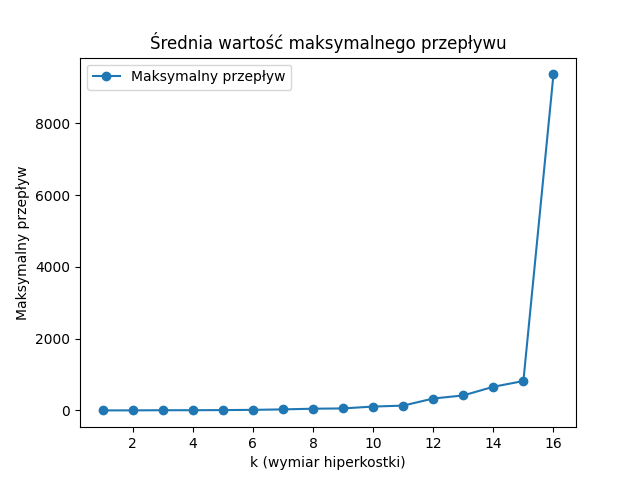
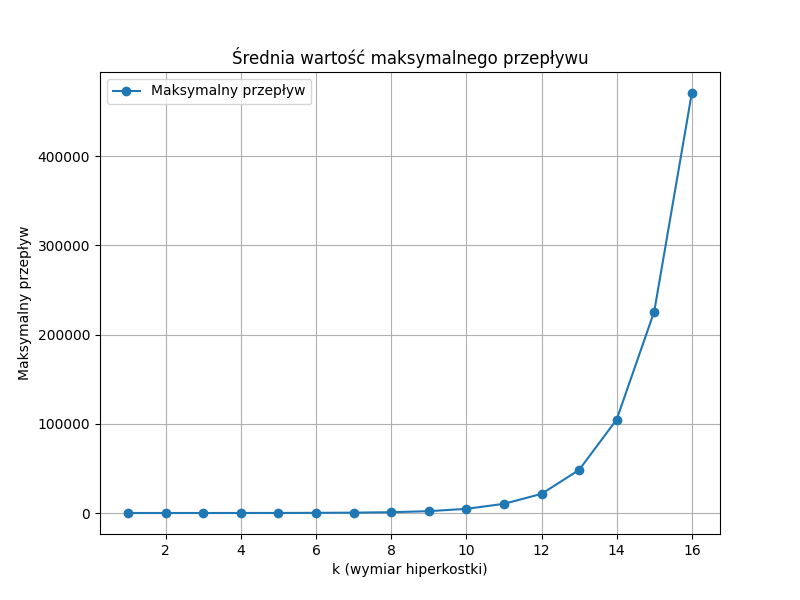
[aod] Completed task 1 from list 4

diff --git a/sem5/aod/list4/src/Graph.cpp b/sem5/aod/list4/src/Graph.cpp
@@ -23,11 +23,11 @@ Graph Graph::createHypercube(const long long size) {
                 continue;
             }
 
-            const long long vertexHammingWeight = __builtin_popcount(size);
-            const long long vertexNumberOfZeroes = dimension - vertexHammingWeight;
+            const long long vertexHammingWeight = __builtin_popcount(vertex);
+            const long long vertexNumberOfZeroes = size - vertexHammingWeight;
 
-            const long long neighborHammingWeight = __builtin_popcount(size);
-            const long long neighborNumberOfZeroes = dimension - neighborHammingWeight;
+            const long long neighborHammingWeight = __builtin_popcount(neighbor);
+            const long long neighborNumberOfZeroes = size - neighborHammingWeight;
 
             const long long upperBound = 1 << std::max({vertexHammingWeight, vertexNumberOfZeroes, neighborHammingWeight, neighborNumberOfZeroes});
 
@@ -40,6 +40,25 @@ Graph Graph::createHypercube(const long long size) {
     return hypercube;
 }
 
+Graph Graph::createBipartiteGraph(const long long size, const long long vertexDegree) {
+    const long long numberOfVertices = 1 << (size + 1); // 2^(2 * size)
+    Graph bipartiteGraph(numberOfVertices, false);
+
+    std::mt19937 mt(std::random_device{}());
+
+    std::uniform_int_distribution<long long> firstVertexSetDistribution(0, (2 << size) - 1);
+    std::uniform_int_distribution<long long> secondVertexSetDistribution((2 << size), (1 << (2 * size)) - 1);
+
+    for (long long vertex = 0; vertex < numberOfVertices; vertex++) {
+        for (int i = 0; i < vertexDegree; i++) {
+            const long long neighbor = (vertex <= (2 << size) - 1) ? secondVertexSetDistribution(mt) : firstVertexSetDistribution(mt);
+            bipartiteGraph.addEdge(vertex, neighbor, 1);
+        }
+    }
+
+    return bipartiteGraph;
+}
+
 void Graph::addEdge(const long long vertex1, const long long vertex2, const long long capacity) {
     numberOfEdges_++;
 
@@ -49,8 +68,8 @@ void Graph::addEdge(const long long vertex1, const long long vertex2, const long
         return;
     }
 
-    // adjacencyList_[vertex1].push_back(Edge(vertex1, vertex2, capacity));
-    // adjacencyList_[vertex2].push_back(Edge(vertex2, vertex1, capacity));
+    adjacencyList_[vertex1].push_back(Edge(vertex1, vertex2, capacity, 0, adjacencyList_[vertex2].size()));
+    adjacencyList_[vertex2].push_back(Edge(vertex2, vertex1, capacity, 0, adjacencyList_[vertex1].size() - 1));
 }
 
 bool Graph::isDirected() const {

diff --git a/sem5/aod/list4/src/plot_generator.py b/sem5/aod/list4/src/plot_generator.py
@@ -3,10 +3,9 @@ from typing import List
 
 import matplotlib.pyplot as plt
 
-DATA_DIR = "../experimentOutput/"
-EDMONDS_KARP_RESULT_FILENAME = "edmondsKarpResults.csv"
-
+EDMONDS_KARP_EXPERIMENT_RESULT_FILENAME = "../experimentOutput/edmondsKarpResults.csv"
 OUTPUT_DIR = "../plots/"
+
 
 def generate_plots_for_edmonds_karp(plot_names: List[str], data_file_path: str, output_file_names: List[str]) -> None:
     xs = []
@@ -20,16 +19,18 @@ def generate_plots_for_edmonds_karp(plot_names: List[str], data_file_path: str, 
 
         for row in rows:
             xs.append(int(row[0]))
-            ys1.append(float(row[1]))
+            ys1.append(float(row[1]) / 1_000_000_000)
             ys2.append(float(row[2]))
             ys3.append(float(row[3]))
 
+    plt.figure(figsize=(8, 6))
     plt.clf()
     plt.plot(xs, ys1, label="Czas", marker="o")
     plt.xlabel("k (wymiar hiperkostki)")
-    plt.ylabel("Czas (ns)")
+    plt.ylabel("Czas (s)")
     plt.title(plot_names[0])
     plt.legend()
+    plt.grid(True)
     plt.savefig(output_file_names[0])
 
     plt.clf()
@@ -38,6 +39,7 @@ def generate_plots_for_edmonds_karp(plot_names: List[str], data_file_path: str, 
     plt.ylabel("Maksymalny przepływ")
     plt.title(plot_names[1])
     plt.legend()
+    plt.grid(True)
     plt.savefig(output_file_names[1])
 
     plt.clf()
@@ -46,13 +48,20 @@ def generate_plots_for_edmonds_karp(plot_names: List[str], data_file_path: str, 
     plt.ylabel("Ilość wyliczonych ścieżek powiększających")
     plt.title(plot_names[2])
     plt.legend()
+    plt.grid(True)
     plt.savefig(output_file_names[2])
 
+
 def main() -> None:
-    plot_names = ["Średni czas wykonania Edmondsa-Karpa", "Średnia wartość maksymalnego przepływu", "Średnia ilość wyliczonych ścieżek powiększających"]
+    plot_names = [
+        "Średni czas wykonania Edmondsa-Karpa",
+        "Średnia wartość maksymalnego przepływu",
+        "Średnia ilość wyliczonych ścieżek powiększających",
+    ]
     output_file_names = ["edmondsKarpTimePlot.png", "edmondsKarpFlowPlot.png", "edmondsKarpPathPlot.png"]
     output_file_names = [OUTPUT_DIR + file_name for file_name in output_file_names]
-    generate_plots_for_edmonds_karp(plot_names, DATA_DIR + EDMONDS_KARP_RESULT_FILENAME, output_file_names)
+    generate_plots_for_edmonds_karp(plot_names, EDMONDS_KARP_EXPERIMENT_RESULT_FILENAME, output_file_names)
+
 
 if __name__ == "__main__":
     main()

diff --git a/sem5/aod/list4/src/experiment.cpp b/sem5/aod/list4/src/experiment.cpp
@@ -6,9 +6,9 @@
 #include "Graph.hpp"
 
 const std::string OUTPUT_DIRECTORY = "../experimentOutput/";
-constexpr int NUMBER_OF_REPEATS = 10;
+constexpr int NUMBER_OF_REPEATS = 100;
 
-void runExperiment() {
+void runFirstExperiment() {
     std::ofstream resultsFile(OUTPUT_DIRECTORY + "edmondsKarpResults.csv");
     resultsFile << "Hypercube Size,Duration,Max Flow,Number of Augmenting Paths\n";
 
@@ -40,7 +40,7 @@ void runExperiment() {
 }
 
 int main() {
-    runExperiment();
+    runFirstExperiment();
 
     return 0;
 }

diff --git a/sem5/aod/list4/src/Graph.hpp b/sem5/aod/list4/src/Graph.hpp
@@ -21,6 +21,7 @@ public:
     Graph(const long long numberOfVertices, const bool isDirected);
 
     static Graph createHypercube(const long long size);
+    static Graph createBipartiteGraph(const long long size, const long long vertexDegree);
 
     void addEdge(const long long vertex1, const long long vertex2, const long long capacity);
     bool isDirected() const;
